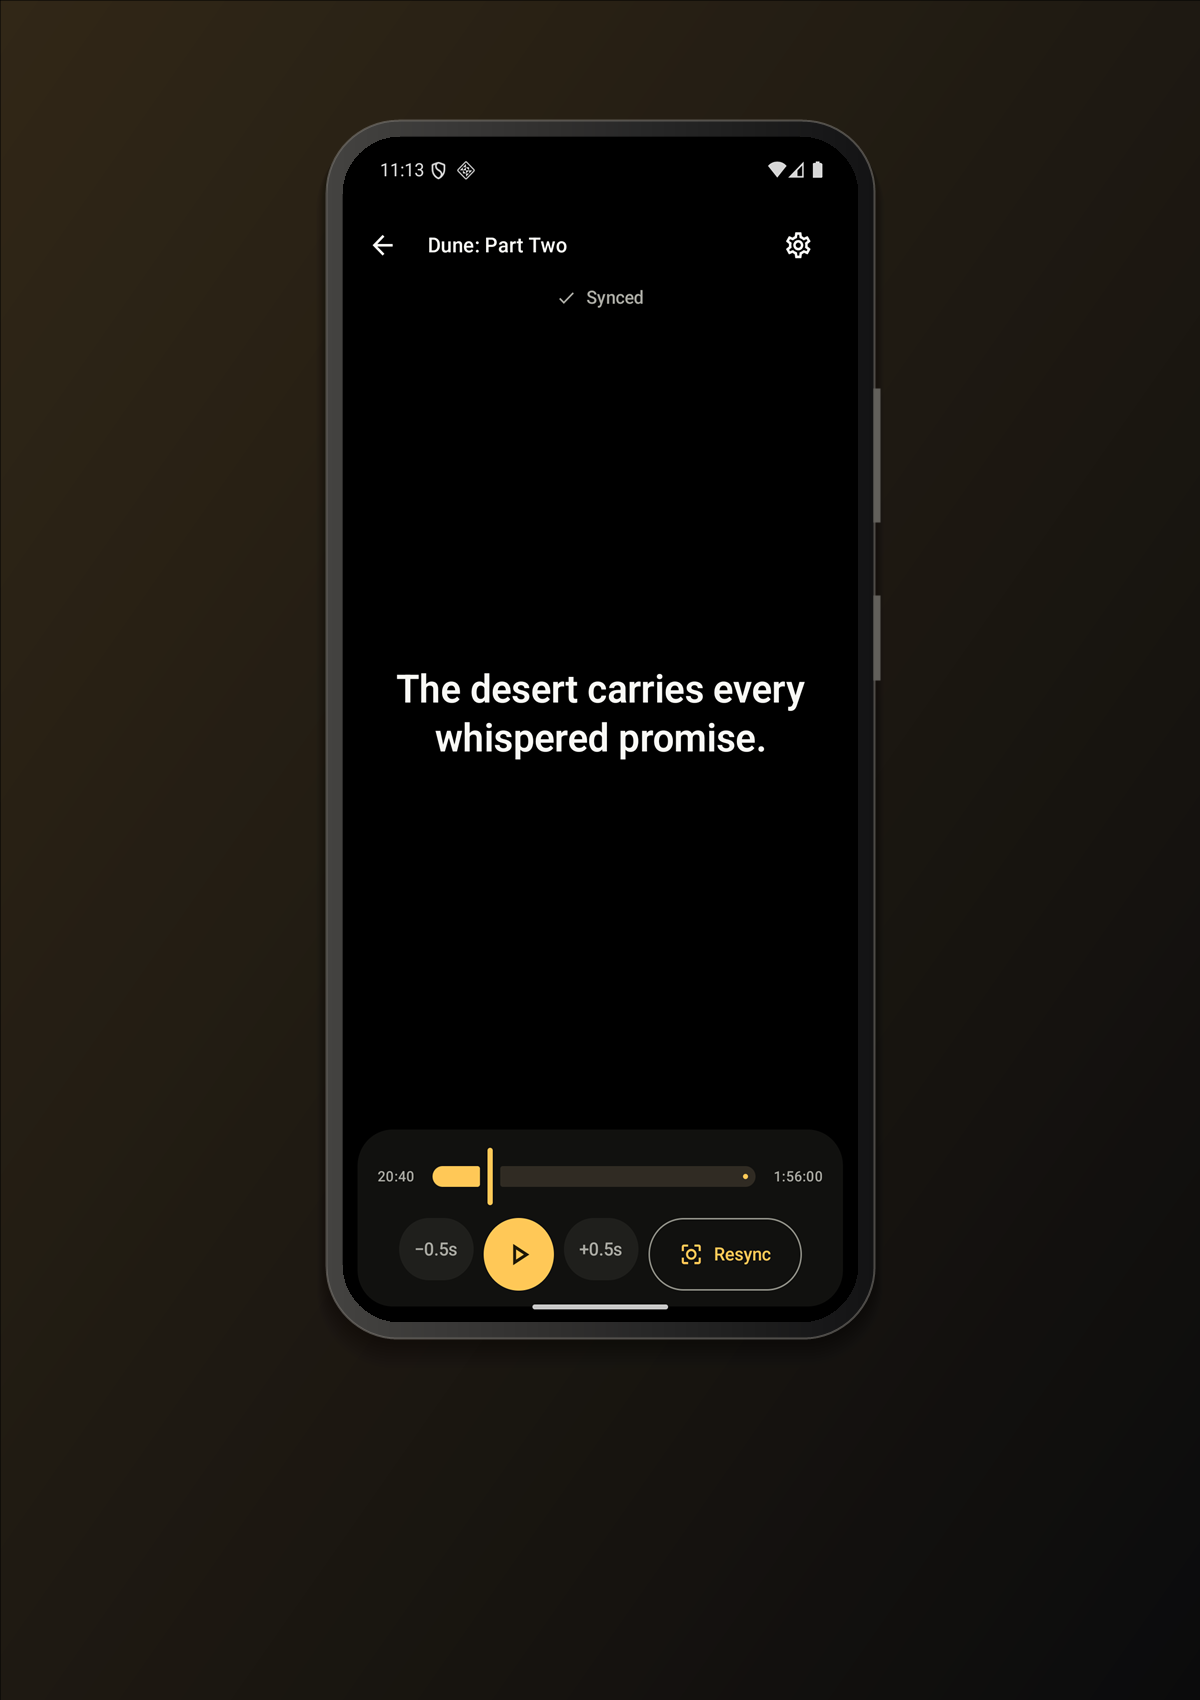
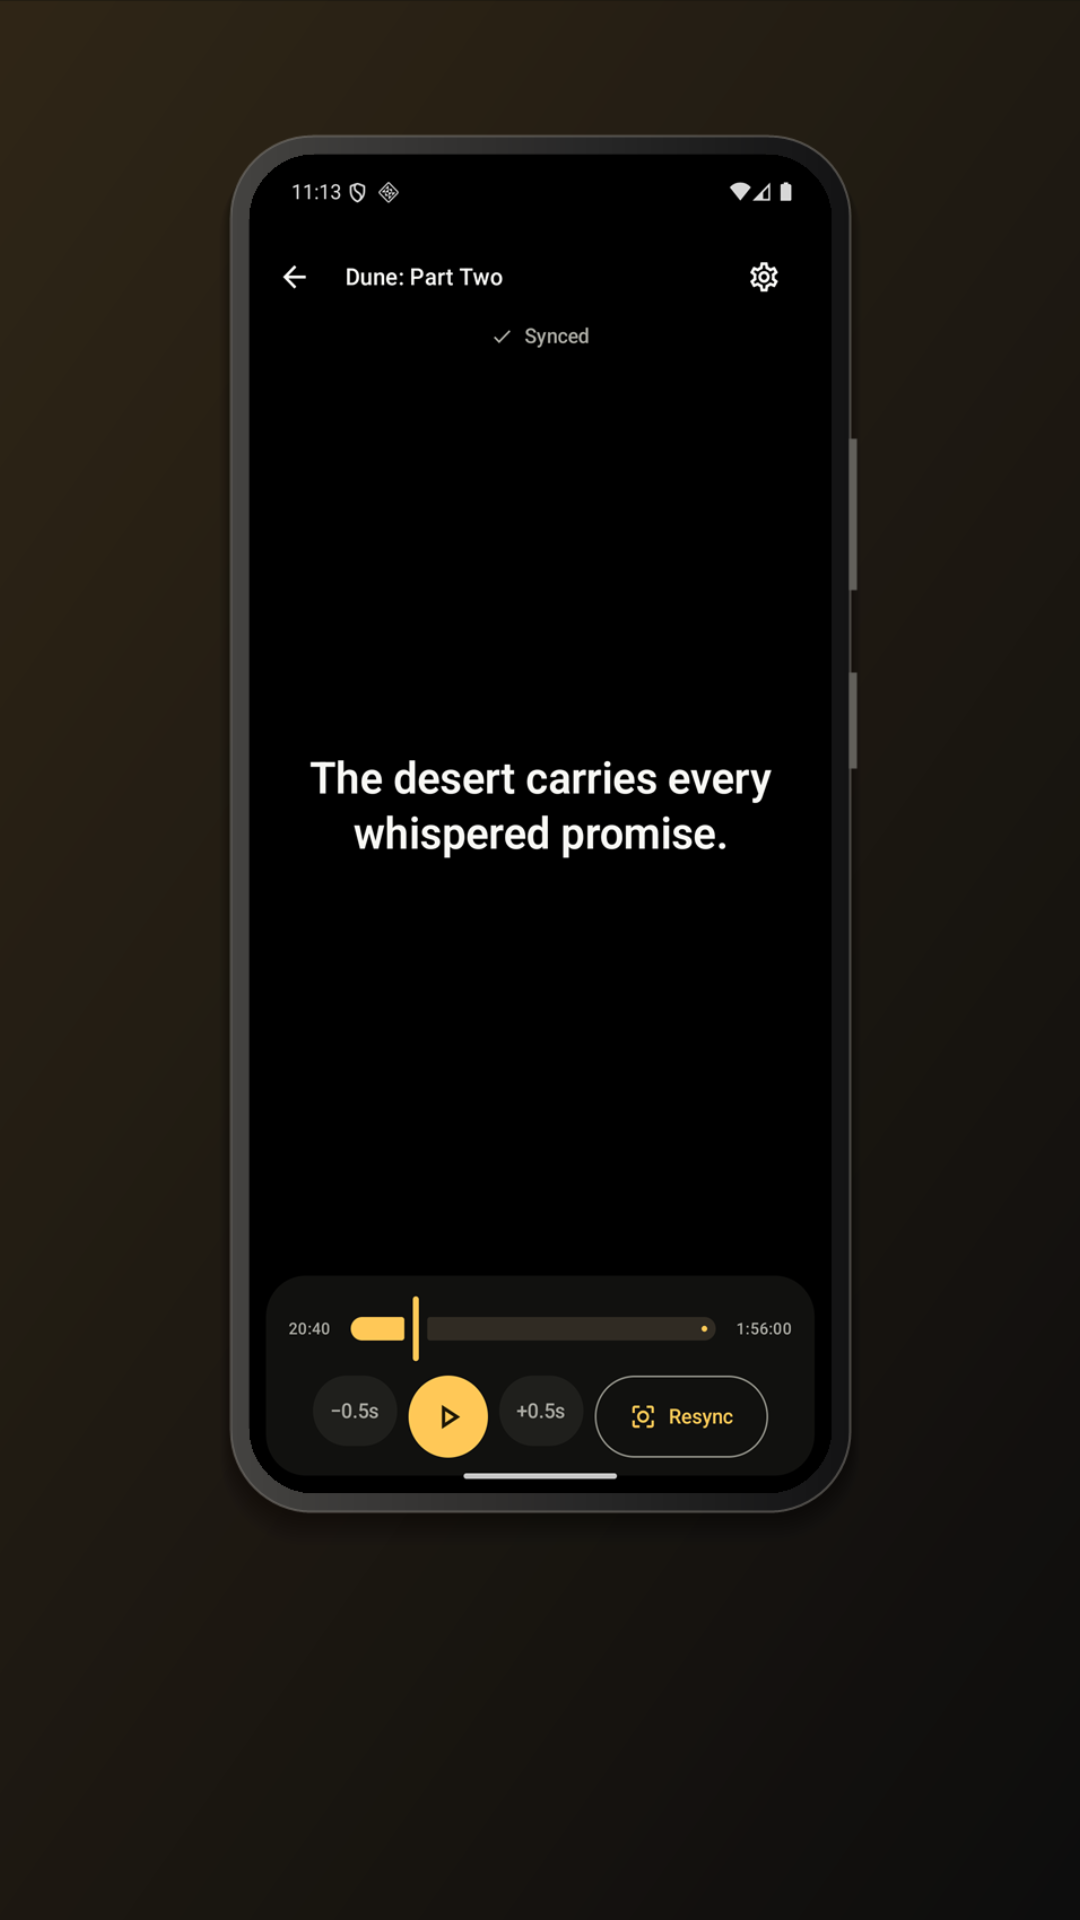
Record Play closed-test submission and final listing assets

Changed region(s): [[0.2139, 0.0624, 0.7944, 0.8106], [0.55, 0.6859, 0.7333, 0.7794], [0.4889, 0.1559, 0.55, 0.1871]]

diff --git a/docs/site/privacy.html b/docs/site/privacy.html
@@ -45,7 +45,8 @@
     <li><strong>Speech model download:</strong> When you choose to download the optional multilingual model, Kaptus contacts Hugging Face and its delivery infrastructure over HTTPS. They receive the model request and your connection's IP address. The downloaded model is verified before use. No microphone audio or OpenSubtitles credentials are sent with this request.</li>
     <li><strong>Links you open:</strong> Privacy, help and account links open in your browser. Those sites receive ordinary browser requests and apply their own privacy policies.</li>
   </ul>
-  <p>OpenSubtitles manages its accounts, request records and download allowances. You can review account and privacy options at <a href="https://www.opensubtitles.com/">OpenSubtitles</a>. Model hosting is covered by the <a href="https://huggingface.co/privacy">Hugging Face privacy policy</a>. This policy page is hosted by GitHub Pages under the <a href="https://docs.github.com/en/site-policy/privacy-policies/github-general-privacy-statement">GitHub privacy statement</a>.</p>
+  <p>Providers can retain connection and request records for service operation, security and service analysis. Hugging Face also records session location, which can be inferred from your IP address. Kaptus does not request Android location access or use an advertising identifier. These network requests are optional: local SRT playback with the bundled English model does not require a provider connection.</p>
+  <p>OpenSubtitles manages its accounts, request records and download allowances. Its <a href="https://opensubtitles.tawk.help/article/privacy-policy">privacy policy</a> describes its server logs and privacy options. Model hosting is covered by the <a href="https://huggingface.co/privacy">Hugging Face privacy policy</a>. This policy page is hosted by GitHub Pages under the <a href="https://docs.github.com/en/site-policy/privacy-policies/github-general-privacy-statement">GitHub privacy statement</a>.</p>
   <p>Kaptus has no developer-operated server for collecting app activity, no advertising SDK and no analytics or automatic crash-reporting SDK. It does not sell personal data.</p>
 
   <h2>Retention and deletion</h2>

diff --git a/docs/play-store/RELEASE.md b/docs/play-store/RELEASE.md
@@ -1,5 +1,19 @@
 # Google Play release preparation
 
+## Current Console status
+
+Kaptus 1.0.0 (version code 8) was submitted to **Closed testing - Alpha** on November 4, 2026. Publishing overview shows **Changes in review**. Managed publishing is off, so the closed test will publish after approval.
+
+The listing is free, targets ages 13 and older, and uses the Video Players & Editors category. App access, content ratings, Data safety and the remaining app-content declarations are saved. The signed AAB passed Console processing with no release errors. The only release warning is about a missing deobfuscation file; this build does not use code shrinking.
+
+The saved Alpha country list has 147 named markets plus Rest of world, with all 30 EEA countries excluded. The track is explicitly unsynced from production because production access is currently locked.
+
+The account must run a closed test with at least **12 opted-in testers for 14 continuous days** before applying for production access. The `Kaptus closed test` email list currently contains the developer's account. Add the remaining testers in Console, then share the opt-in link after the test becomes available. Adding an address to the list does not opt that person in.
+
+- [Publishing overview](https://play.google.com/console/u/0/developers/6067490903935725737/app/4975177013176012197/publishing)
+- [Closed test](https://play.google.com/console/u/0/developers/6067490903935725737/app/4975177013176012197/tracks/4701086012298210700)
+- [Tester opt-in link, available after approval](https://play.google.com/apps/testing/com.desigrit.kaptus)
+
 ## Release identity and files
 
 The first Play release candidate is **Kaptus 1.0.0**, version code **8**, package **com.desigrit.kaptus**. The developer confirmed that this is Kaptus's first listing. Google Play package names are permanent. The normal development build retains `com.example.kaptus` and its existing data.
@@ -35,7 +49,7 @@ For CI or a different machine, supply the existing keystore through `KAPTUS_UPLO
 | Category | Video Players & Editors |
 | Public support email | raunakoberoi@gmail.com |
 
-The developer confirmed that Kaptus will be free to install. Confirm the intended target age groups when completing the account forms. Kaptus contains no advertising or in-app purchases. Its microphone permission supports an optional foreground auto-seek feature. It uses the Android document picker instead of broad media permissions.
+Kaptus is free to install and targets the 13-15, 16-17 and 18+ age groups. Kaptus contains no advertising or in-app purchases. Its microphone permission supports an optional foreground auto-seek feature. It uses the Android document picker instead of broad media permissions.
 
 The policy source is `docs/site/privacy.html`. It is published at the root of the `gh-pages` branch using GitHub Pages, and the public HTTPS URL has been verified. The app links to it from Settings. When updating the policy, update both the source and the published branch.
 
@@ -43,25 +57,23 @@ The policy source is `docs/site/privacy.html`. It is published at the root of th
 
 In **Test and release > Production > Countries / regions**, select the intended markets and deselect every country in `eea-exclusions.csv`. It contains the 27 EU members plus Iceland, Liechtenstein and Norway. The United Kingdom and Switzerland are outside the EEA.
 
-Keep open and closed test tracks synced to the same country list, or apply the same exclusions explicitly if a track is unsynced. Check the saved selection before rollout. Internal testing has no country targeting; use a controlled tester list for that track. These are planned settings until confirmed in Play Console.
+The exclusions have been saved and read back for Closed testing - Alpha: none of the 30 EEA names appears in its 148 selected targets. When production becomes available, apply the same exclusions there before rollout. Keep future test tracks synced to that country list or apply the exclusions explicitly. Internal testing does not support country targeting.
 
 ## App access and review
 
 Local SRT playback is accessible without an account. Reviewers can open an SRT using the document picker, choose its language, select manual timing and use playback controls. `review-demo.srt` is included for that path.
 
-OpenSubtitles search and downloads require an API key. Declare that part of the app as restricted in the App access form and provide a dedicated reviewer API key plus setup instructions through Play Console's private access fields. Do not publish a personal API key in this repository or the public listing. A reviewer should not need to create an account or contact the developer to complete review. Provider download allowance must cover review.
+OpenSubtitles search and downloads require an API key. App access is declared partially restricted. The developer authorized their existing key for Google's reviewers, and it is saved only in Console's private instructions. Search and download access were verified. The instructions explain the five-download daily allowance and provide a local SRT fallback. No username, password, account creation or payment is required. The optional setting to share access with trusted partner devices is off. Never put reviewer credentials in the repository or public listing.
 
 Microphone permission is optional. To review English auto-seek, open English captions, set spoken language to English, permit the microphone, and play matching dialogue from a separate speaker. Once a scene is found, capture stops. The bundled English model requires no download. The optional multilingual model is available in Settings before reviewing the nine additional language pairs.
 
-## Console sequence
+## Subsequent releases
 
-1. Sign into Play Console using a normal supported browser. Google may block sign-in from Playwright-controlled browsers.
-2. Check whether Kaptus already has a listing, its permanent package name, and the account's production eligibility.
-3. Create the app if needed. Add the public support email, listing text, artwork and live privacy URL.
-4. Complete App access, Ads, Target audience, Content rating and Data safety using the actual app behavior and the evidence in `DATA_SAFETY.md`.
-5. Enroll in Play App Signing, upload the signed AAB and review Play's bundle checks and pre-launch report.
-6. Set and verify the non-EEA country list for the intended testing or production track.
-7. If Play requires closed testing, enroll the required testers and satisfy the testing period before applying for production access. Otherwise, complete the release review and submit.
+1. Sign into the existing Kaptus listing using a supported browser. Keep the same package name and upload key, and increase the version code.
+2. Update the listing and app-content declarations if the app's behavior changes. Keep the live privacy policy aligned with the source.
+3. Upload the signed AAB to the appropriate track and review bundle checks and pre-launch results.
+4. Verify the non-EEA country list and reviewer access before sending changes for review.
+5. For the first public release, complete the closed test, apply for production access, and set production country targeting before rollout.
 
 ## Sources
 

diff --git a/docs/play-store/DATA_SAFETY.md b/docs/play-store/DATA_SAFETY.md
@@ -1,6 +1,6 @@
-# Data safety preparation
+# Data safety declaration
 
-This evidence is for the Android release source on this branch. Complete the live form after checking the provider's current data practices. The app's local-only microphone processing does not make the optional online provider path a no-data-collection app.
+These are the answers saved in Play Console and submitted with Android release 1.0.0 on November 4, 2026. They cover optional OpenSubtitles and model-hosting requests as well as the app's local processing.
 
 ## Data flows
 
@@ -12,24 +12,33 @@ This evidence is for the Android release source on this branch. Complete the liv
 | OpenSubtitles API key | OpenSubtitles API over HTTPS | Authenticate provider requests | Optional provider setup; encrypted locally |
 | OpenSubtitles username and password | OpenSubtitles login endpoint over HTTPS | Optional account authentication | Optional even within provider setup; encrypted locally |
 | Search text, movie/episode IDs, caption language, subtitle IDs | OpenSubtitles API over HTTPS | Find and download selected captions | User initiates provider features; provider controls server retention |
-| Network IP address, standard request headers | OpenSubtitles and subtitle delivery hosts | Deliver requests, provider access limits | Present on network requests; provider logging and use must be checked |
+| Network IP address, standard request headers | OpenSubtitles and subtitle delivery hosts | Deliver requests, provider access limits and security | Present on optional network requests; provider controls server retention |
 | Model identifier and network IP address | Hugging Face and delivery hosts | Download the optional multilingual model | Explicit user download; no credentials or speech sent |
+| Connection identifiers, request activity and inferred session location | Network providers | Service operation, security and analysis | Optional online paths; provider retention applies |
 
-## Proposed form treatment
+## Saved form answers
 
-- **Data collected: Yes**, for optional provider and model-hosting requests that transmit data off the device.
-- **App activity / In-app search history:** title queries sent to OpenSubtitles; optional; app functionality.
-- **Personal info / User IDs:** account username and account-linked API key; optional; app functionality and account management.
-- **Personal info / Other info:** optional account authentication secret, subject to the current form's exact definitions; app functionality and account management.
-- **Audio files / Voice or sound recordings:** not collected off-device. Do not mark audio as uploaded merely because RECORD_AUDIO is requested.
-- **Files and docs:** selected SRT files are read locally, not uploaded.
-- **Data encrypted in transit:** app endpoints use HTTPS; Android cleartext traffic is disabled. Provider download URLs are required to use HTTPS.
-- **Account creation:** Kaptus does not create app accounts. OpenSubtitles accounts belong to the external provider.
-- **Data deletion:** local data can be removed through Android app storage controls or uninstall. Optional model deletion and provider credential removal are available in Settings. Do not claim that clearing Kaptus deletes provider records.
+Data collection is **Yes**. All six declared types are **optional** and **not processed ephemerally**. Local SRT playback with the bundled English model remains available without these network requests.
 
-Before final submission, verify whether OpenSubtitles and the model hosts retain or use IP addresses as device identifiers or infer location. Declare the corresponding types based on their actual use. Do not mark requests as processed ephemerally without evidence of provider retention.
+| Play data type | Collected | Shared | Selected purposes |
+| --- | --- | --- | --- |
+| Personal info / User IDs | Yes | No | App functionality; account management; fraud prevention, security and compliance |
+| Personal info / Other info | Yes | No | App functionality; account management |
+| Location / Approximate location | Yes | Yes | Analytics; fraud prevention, security and compliance |
+| App activity / App interactions | Yes | Yes | App functionality; analytics; fraud prevention, security and compliance |
+| App activity / In-app search history | Yes | No | App functionality; fraud prevention, security and compliance |
+| Device or other IDs | Yes | Yes | App functionality; analytics; fraud prevention, security and compliance |
 
-Google excludes some user-initiated, expected transfers to third parties from its definition of sharing. Check that the actual provider disclosures and user choices satisfy that exception before selecting the sharing answer. The app currently explains that credentials are sent to OpenSubtitles and that microphone audio stays on the device.
+Credentials and title searches are user-initiated transfers to the named OpenSubtitles provider. Their sharing answers use Google's exception for expected, user-initiated transfers. Connection metadata is declared shared conservatively because providers use it for their own service operation, analysis and security. The app explains provider credential use in Settings, and the public policy describes connection records and inferred session location.
+
+OpenSubtitles describes request and IP logging with a normal seven-day retention period, with longer retention possible for disputes. Hugging Face describes automatically collected IP addresses and session location. Neither flow is declared ephemeral. Approximate location refers to provider inference from network connections, not Android location permission. Device identifiers refer to connection identifiers, not an advertising ID.
+
+- **Encryption in transit: Yes.** App endpoints use HTTPS, Android cleartext traffic is disabled, and provider download URLs must use HTTPS.
+- **Kaptus account creation: None.** Users may connect an existing external OpenSubtitles account, explained in the form's external-login answer.
+- **Data deletion request mechanism: No.** Settings can remove local credentials and the optional model. Clearing app storage or uninstalling removes local app data, but Kaptus does not operate a request process for deleting provider records.
+- **Audio, files and documents: Not collected off-device.** Microphone PCM, transcripts and SRT contents stay on the device.
+- **Advertising ID: No.** There are no advertising, analytics or automatic crash-reporting SDKs in the app.
+- **Independent security review badge and UPI certification: Not claimed.**
 
 ## Source references
 
@@ -42,3 +51,5 @@ Google excludes some user-initiated, expected transfers to third parties from it
 - `app/src/main/AndroidManifest.xml`
 - [Google Play Data safety definitions](https://support.google.com/googleplay/android-developer/answer/10787469)
 - [Google Play privacy policy requirements](https://support.google.com/googleplay/android-developer/answer/9859455)
+- [OpenSubtitles privacy policy](https://opensubtitles.tawk.help/article/privacy-policy)
+- [Hugging Face privacy policy](https://huggingface.co/privacy)

diff --git a/docs/play-store/VERIFICATION.md b/docs/play-store/VERIFICATION.md
@@ -1,6 +1,6 @@
 # Release candidate verification
 
-Checked on November 4, 2026 for the proposed Android release `com.desigrit.kaptus`, version 1.0.0, code 8.
+Checked on November 4, 2026 for Android release `com.desigrit.kaptus`, version 1.0.0, code 8, submitted to Closed testing - Alpha.
 
 | Check | Result |
 | --- | --- |
@@ -17,10 +17,19 @@ Checked on November 4, 2026 for the proposed Android release `com.desigrit.kaptu
 | Included speech assets | English base model and Silero VAD hashes match the pinned build checksums |
 | Store icon | 512 x 512, 32-bit PNG |
 | Feature graphic | 1024 x 500, 24-bit opaque PNG |
+| Phone screenshots | Two 1080 x 1920 portraits and one 1920 x 1080 landscape; opaque PNGs; saved in Console |
 | Listing copy | Title, short description, full description and notes fit Play field limits |
 | Privacy policy | Public HTTPS returns 200; mobile layout fits 390 px without horizontal overflow |
 | Signing secrets | Ignored by Git; password protected with Windows DPAPI; key directory restricted to its Windows owner |
-| EEA market specification | 30 unique country codes, ready to apply in Console |
+| EEA country targeting | Saved Alpha list read back: 147 named markets plus Rest of world; no EEA country selected |
+| Console bundle processing | Accepted version code 8; no release errors; native debug symbols attached |
+| Console warning | No deobfuscation file; expected because release code shrinking is disabled |
+| Pricing and audience | Free; 13-15, 16-17 and 18+ saved |
+| Content ratings | Questionnaire saved; North America Teen, Brazil 14+, USK 12, IARC generic 12+ |
+| Data safety and app content | Saved declarations match `DATA_SAFETY.md`; no advertising ID |
+| Reviewer access | Provider search and download verified; private credentials and local SRT instructions saved |
+| Submission | Publishing overview shows Changes in review; managed publishing off |
+| Production eligibility | Locked pending a closed test with 12 opted-in testers for 14 continuous days |
 
 Upload certificate SHA-256:
 
@@ -30,4 +39,6 @@ Upload certificate SHA-256:
 
 The release output folder contains the artifact checksums and bundle manifest. Existing physical-device recognition validation is documented separately in `docs/MULTILINGUAL_VERIFICATION.md`. This preparation run does not add physical-device or instrumented test results.
 
-Console upload, account production eligibility, the final Data safety answers, reviewer provider access and saved country targeting remain pending until Play Console is accessible. No Play release has been submitted.
+The signed app artifacts were built from source commit `e7d7f07a6afc59cc6b5439c5f5fe0fef54d265ec`. Later changes update listing assets, the published privacy policy and release documentation. The AAB submitted to Google matches the recorded SHA-256 in `release-manifest.json`.
+
+The closed test is submitted for review. The tester list currently contains the developer's account; further testers and the required testing period are still needed before a production application. Production country targeting must be set when that track becomes available.
